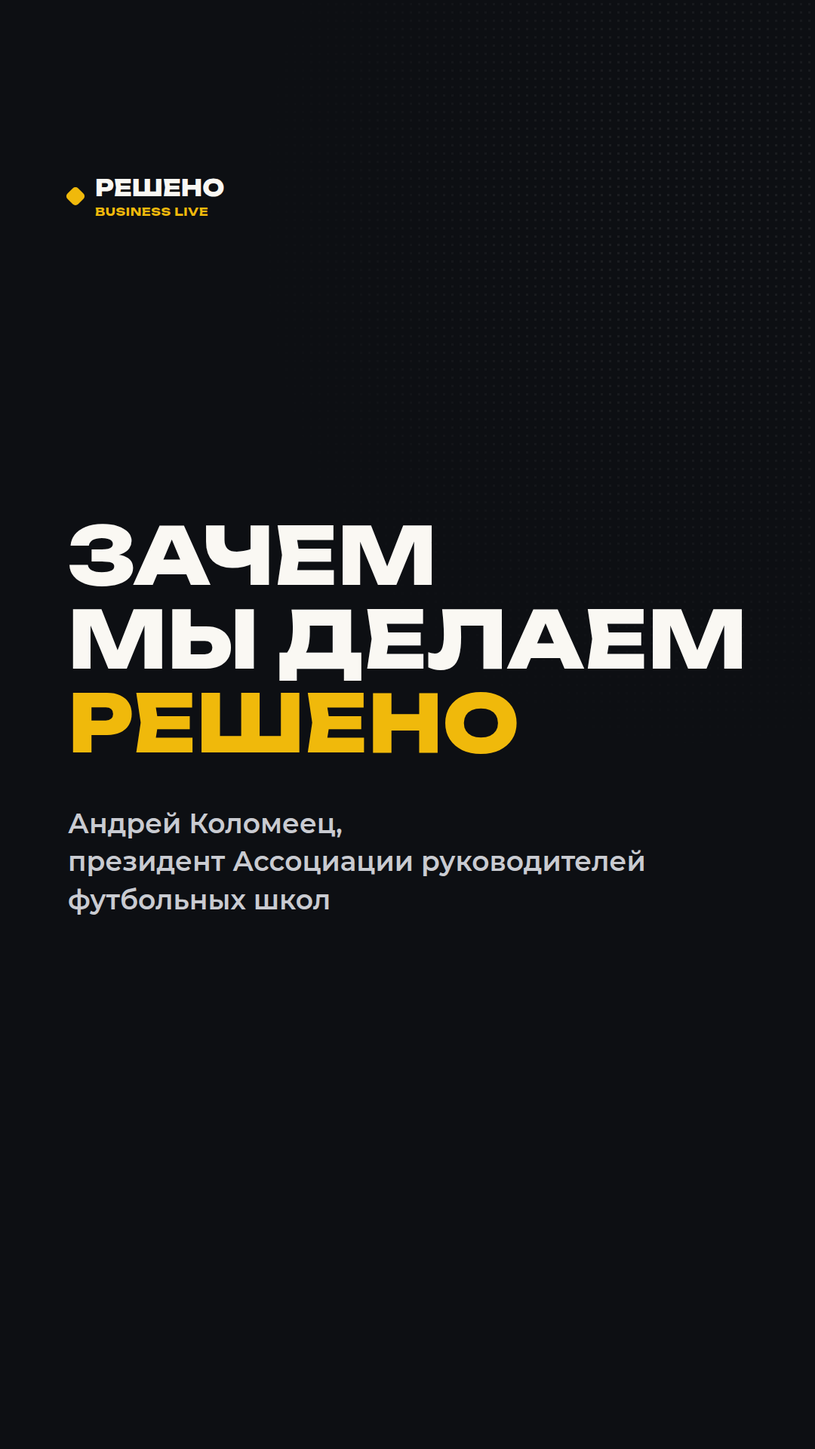
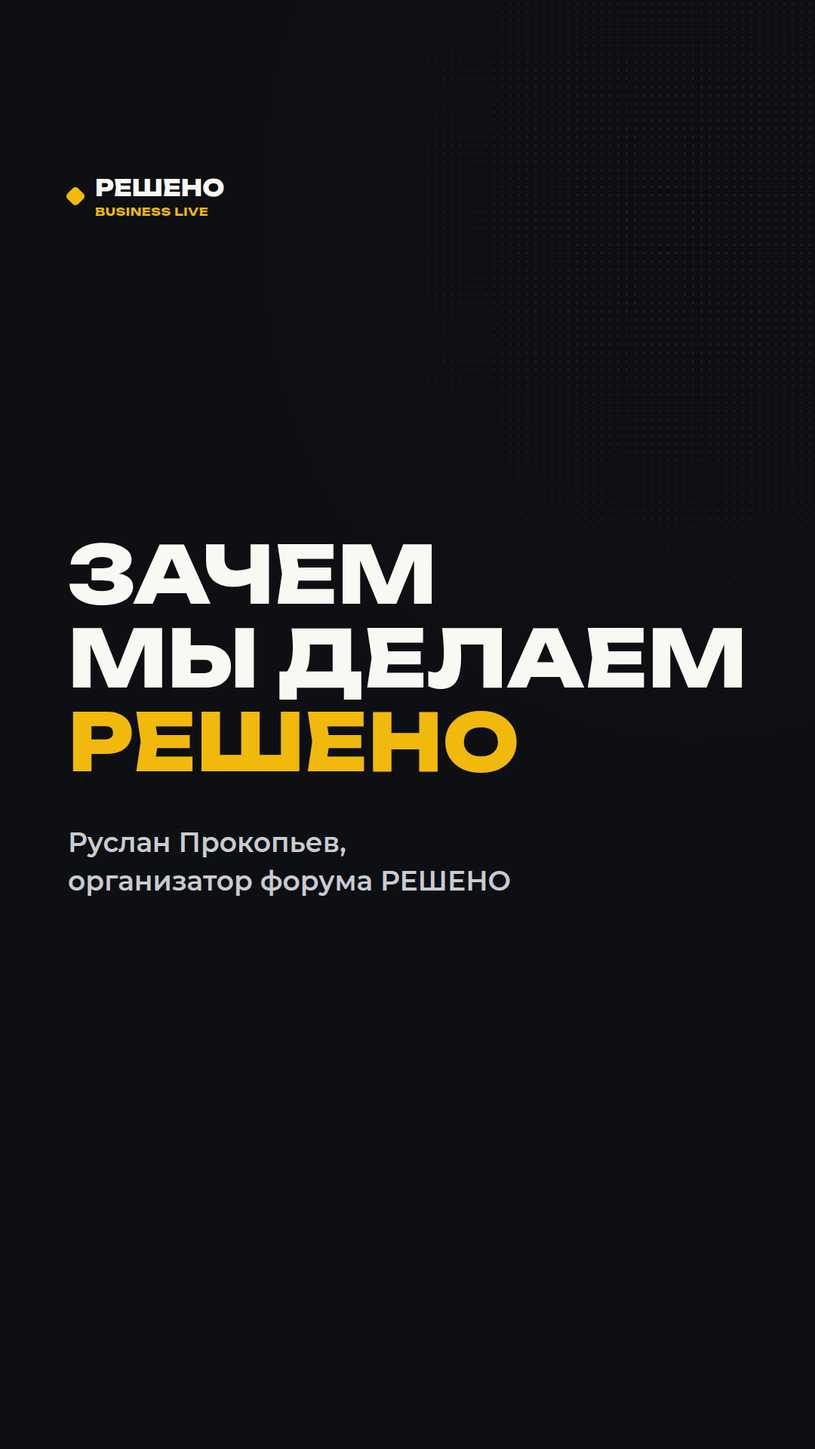
Week 1: Ruslan Prokopyev as organizer, stricter chat rules, first messages
Replace the organizer across posts, video script, reel cover and
mailing; rewrite chat rules to ban sales and spam outright; add the
channel's opening post and a new first message for the chat.

Claude-Session: https://claude.ai/code/session_015DfynR8ViCbDyQMuNVS5SH

Changed region(s): [[0.0611, 0.3438, 0.9167, 0.5312], [0.0611, 0.5625, 0.7944, 0.6562]]

diff --git a/content/week-01_28.09-04.10/README.md b/content/week-01_28.09-04.10/README.md
@@ -1,6 +1,6 @@
 # Неделя 1 · 28.09–04.10 · «Что такое РЕШЕНО»
 
-Исходный план — [`kontent-plan.md`](kontent-plan.md). Цель недели: объяснить, чем РЕШЕНО отличается от обычных форумов, и набрать 100 подписчиков в Telegram. Спикеров и цены не называем.
+Исходный план — [`kontent-plan.md`](kontent-plan.md) (в нём ещё старое имя организатора; в готовых материалах — Руслан Александрович Прокопьев, организатор и первое лицо форума). Цель недели: объяснить, чем РЕШЕНО отличается от обычных форумов, и набрать 100 подписчиков в Telegram. Спикеров и цены не называем.
 
 ## Где что лежит
 
@@ -17,6 +17,7 @@ instagram/       карусели (slide-N.png + podpis.md), рилсы, stories
 
 | День | Время | Telegram-канал | VK | Instagram | Сторис (IG + VK) |
 |---|---|---|---|---|---|
+| **до 28.09** | — | [Первое сообщение канала](telegram/00-pervoe-soobschenie-kanala.md) — сразу после создания | | | |
 | **Пн 28.09** | 10:00 | [Манифест](telegram/1-pn-28.09-manifest.md) 📌 + [рассылка по базе](telegram/0-rassylka-po-baze-associacii.md) | [Пост + обложка](vk/1-pn-28.09-manifest/) | [Карусель, 6 сл.](instagram/1-pn-28.09-karusel-manifest/) | «Мы запустились», ссылка на канал |
 | **Вт 29.09** | 10:00 | [Организатор + видео](telegram/2-vt-29.09-organizator.md) | [Пост + видео](vk/2-vt-29.09-organizator/) | [Рилс](instagram/2-vt-29.09-rils-organizator/) | «Готовим РЕШЕНО», опрос Да/Нет |
 | **Ср 30.09** | 10:00 | [5 вопросов](telegram/3-sr-30.09-5-voprosov.md) | [Пост + карточка](vk/3-sr-30.09-5-voprosov/) | [Карусель, 7 сл.](instagram/3-sr-30.09-karusel-5-voprosov/) | Стикер-вопрос |
@@ -24,7 +25,7 @@ instagram/       карусели (slide-N.png + podpis.md), рилсы, stories
 | **Пт 02.10** | 11:00 | [Вопрос недели](telegram/5-pt-02.10-vopros-nedeli.md) | [Клип](vk/5-pt-02.10-klip-vopros-nedeli/) | [Рилс](instagram/5-pt-02.10-rils-vopros-nedeli/) | Репост + опрос «Тренер / Цифра» |
 | **Сб 03.10** | 12:00 | [Итоги опроса](telegram/6-sb-03.10-itogi-oprosa.md) ⚠ | [Итоги + диаграмма](vk/6-sb-03.10-itogi-oprosa/) ⚠ | [Карусель, 3 сл.](instagram/6-sb-03.10-karusel-itogi/) ⚠ | Итоги ⚠ |
 | **Вс 04.10** | — | [Мем «Понедельник владельца»](telegram/7-vs-04.10-mem/) | — | — | Закулисье, анонс недели 2 |
-| **Вс 04.10** | вечер | **Чат:** [пригласить 10–15 человек](telegram-chat/5-lichnoe-priglashenie.md), [приветствие](telegram-chat/4-privetstvie.md) | | | |
+| **Вс 04.10** | вечер | **Чат:** [правила-закреп](telegram-chat/2-pravila-zakrep.md), [пригласить 10–15 человек](telegram-chat/5-lichnoe-priglashenie.md), [первое сообщение](telegram-chat/4-privetstvie.md) | | | |
 
 ⚠ — шаблоны: ждут цифр опроса. Пришлите результаты в субботу утром — перерисую диаграмму, карусель и сторис.
 
@@ -35,7 +36,7 @@ instagram/       карусели (slide-N.png + podpis.md), рилсы, stories
 **Готово в репозитории:** все тексты для 4 площадок, 2 карусели + шаблон третьей, обложки рилсов и клипа, титры клипа (прозрачные PNG), карточки и обложки VK, 10 сторис-фонов, мем, материалы для чата, рассылка по базе.
 
 **Нужно снять / сделать вручную до 28.09:**
-- [ ] Видеообращение Андрея Николаевича — [сценарий](instagram/2-vt-29.09-rils-organizator/scenariy.md)
+- [ ] Видеообращение Руслана Александровича Прокопьева — [сценарий](instagram/2-vt-29.09-rils-organizator/scenariy.md)
 - [ ] Ролик «Вопрос недели» — [сценарий](vk/5-pt-02.10-klip-vopros-nedeli/scenariy.md)
 - [ ] Фото команды (вт) и закулисья (вс) для сторис
 - [ ] Ссылки на лендинг и Telegram-канал в шапках VK и Instagram

diff --git a/content/week-01_28.09-04.10/telegram-chat/2-pravila-zakrep.md b/content/week-01_28.09-04.10/telegram-chat/2-pravila-zakrep.md
@@ -2,18 +2,28 @@
 
 ---
 
-**Добро пожаловать в сообщество РЕШЕНО**
+**Правила сообщества РЕШЕНО**
 
-Здесь собираются владельцы и руководители спортивного бизнеса, чтобы обсуждать реальные вопросы: деньги, клиентов, команду, рост.
+Это закрытая площадка для общения владельцев и руководителей спортивного бизнеса. Ценность чата — в людях и честных разговорах, поэтому правила здесь строгие.
 
-**Три правила:**
+**✅ Здесь можно**
+• Задавать вопросы о своём бизнесе и делиться опытом
+• Спорить по делу — с аргументами и уважением
+• Знакомиться и договариваться о встречах на форуме
 
-1⃣ **Представьтесь** одним сообщением:
+**⛔ Здесь нельзя**
+• **Продавать.** Никаких предложений услуг, товаров, курсов и «напишите мне в личку» — даже если кажется, что это к месту
+• **Рекламировать и спамить.** Ссылки на свои каналы, сайты, акции, репосты и массовые рассылки участникам в личку
+• **Переходить на личности** и выяснять отношения
+
+Нарушение правил «Нельзя» — **удаление сообщения и блокировка без предупреждения.** Исключений нет, в том числе для партнёров форума.
+
+**👋 Как начать**
+Представьтесь одним сообщением:
 Имя, город, бизнес, главный вопрос.
-_Например: Андрей, Казань, футбольная школа на 300 детей, не могу найти тренеров._
+_Например: Иван, Самара, футбольная школа на 300 детей, не могу найти тренеров._
 
-2⃣ **Без спама и рекламы.** Продавать свои услуги — только если об этом спросили.
+**❓ Вопросы организаторам** — с тегом #вопрос. Так мы их точно не пропустим.
 
-3⃣ **Вопросы организаторам — с тегом #вопрос.** Так мы их не пропустим.
-
-Форум — 13–14 ноября, Москва. Подробности: sportbusinessforum.netlify.app
+Форум — 13–14 ноября 2026, Москва · sportbusinessforum.netlify.app
+Новости форума — в канале: {{ссылка на канал}}

diff --git a/content/week-01_28.09-04.10/telegram/2-vt-29.09-organizator.md b/content/week-01_28.09-04.10/telegram/2-vt-29.09-organizator.md
@@ -1,13 +1,15 @@
 # ВТ 29.09 · 10:00 · Организатор
 
-Прикрепить: видеообращение Андрея Николаевича (вертикальное, с субтитрами). Сценарий — `../instagram/2-vt-29.09-rils-organizator/scenariy.md`
+Прикрепить: видеообращение Руслана Александровича Прокопьева (вертикальное, с субтитрами). Сценарий — `../instagram/2-vt-29.09-rils-organizator/scenariy.md`
 
 ---
 
 **Кто делает РЕШЕНО и зачем**
 
-Организатор форума — Ассоциация руководителей футбольных школ. Мы каждый день общаемся с владельцами школ и клубов и видим одни и те же вопросы: где брать клиентов, как удержать тренеров, как вырасти и не выгореть.
+РЕШЕНО делают люди из отрасли, а не ивент-агентство. Организатор и первое лицо форума — Руслан Александрович Прокопьев. Мы каждый день общаемся с владельцами спортивных школ и клубов и видим одни и те же вопросы: где брать клиентов, как удержать тренеров, как вырасти и не выгореть.
 
 На обычных конференциях на них отвечают общими словами. Мы решили собрать людей, которые уже прошли этот путь, и посадить их за один стол с теми, кто идёт по нему сейчас.
+
+Зачем это всё — Руслан Александрович рассказывает сам 👇
 
 Такие вопросы решаем на РЕШЕНО → Узнать подробнее: sportbusinessforum.netlify.app

diff --git a/content/week-01_28.09-04.10/vk/2-vt-29.09-organizator/post.md b/content/week-01_28.09-04.10/vk/2-vt-29.09-organizator/post.md
@@ -1,14 +1,14 @@
 # VK · ВТ 29.09 · 10:00 · Организатор
 
-Видео: видеообращение Андрея Николаевича — **загрузить нативно в VK, не ссылкой**. Сценарий: `../../instagram/2-vt-29.09-rils-organizator/scenariy.md`
+Видео: видеообращение Руслана Александровича Прокопьева — **загрузить нативно в VK, не ссылкой**. Сценарий: `../../instagram/2-vt-29.09-rils-organizator/scenariy.md`
 
 ---
 
 **Кто делает РЕШЕНО и зачем**
 
-Организатор — Ассоциация руководителей футбольных школ. Каждый день мы слышим от владельцев школ и клубов одни и те же вопросы: где брать клиентов, как удержать тренеров, как вырасти и не выгореть.
+Организатор и первое лицо форума — Руслан Александрович Прокопьев. Каждый день мы слышим от владельцев спортивных школ и клубов одни и те же вопросы: где брать клиентов, как удержать тренеров, как вырасти и не выгореть.
 
-Мы собираем тех, кто уже прошёл этот путь, за одним столом с теми, кто идёт по нему сейчас.
+Мы собираем тех, кто уже прошёл этот путь, за одним столом с теми, кто идёт по нему сейчас. Зачем — рассказывает Руслан Александрович в видео.
 
 Такие вопросы решаем на РЕШЕНО → Узнать подробнее: sportbusinessforum.netlify.app
 

diff --git a/content/week-01_28.09-04.10/telegram-chat/4-privetstvie.md b/content/week-01_28.09-04.10/telegram-chat/4-privetstvie.md
@@ -1,9 +1,22 @@
-# Первое сообщение модератора (вс 04.10, после приглашений)
+# Первое сообщение чата (вс 04.10, сразу после личных приглашений)
+
+Публикует модератор, затем закрепляет над правилами (или правила — в закреп, это — первым сообщением ленты).
 
 ---
 
-Добро пожаловать! 👋
+**Добро пожаловать в сообщество РЕШЕНО** 👋
 
-Представьтесь и напишите, с каким вопросом поехали бы на форум.
+Это площадка для общения участников и друзей форума РЕШЕНО — владельцев и руководителей спортивного бизнеса.
+
+Здесь мы:
+🔸 обсуждаем то, что реально болит: деньги, клиенты, команда, рост
+🔸 делимся опытом — что сработало, а что нет
+🔸 знакомимся до форума, чтобы 13–14 ноября в Москве встретиться уже не незнакомцами
+
+Здесь нет продаж, рекламы и спама — только разговоры по делу. Правила — в закрепе.
+
+**С чего начать:** представьтесь и напишите, с каким вопросом поехали бы на форум.
 
 Начну с себя: [Имя], [роль в команде РЕШЕНО]. Мой вопрос: [короткий вопрос].
+
+Новости форума — в канале: {{ссылка на канал}}

diff --git a/content/week-01_28.09-04.10/telegram/00-pervoe-soobschenie-kanala.md b/content/week-01_28.09-04.10/telegram/00-pervoe-soobschenie-kanala.md
@@ -1,0 +1,24 @@
+# Первое сообщение канала (опубликовать сразу после создания, до манифеста)
+
+Это «визитка» канала: объясняет, что здесь официальная информационная площадка форума. В понедельник 28.09 в закреп уходит манифест, а эту визитку можно закрепить второй или оставить первым постом ленты.
+
+---
+
+**РЕШЕНО. Business Live**
+Официальный канал форума владельцев и руководителей спортивного бизнеса
+
+13–14 ноября 2026 · Москва
+
+Это информационная площадка форума. Здесь — только то, что важно знать:
+
+🔸 **Новости форума** — программа, форматы, спикеры по мере подтверждения
+🔸 **Разборы** — реальные вопросы спортивного бизнеса: деньги, клиенты, команда, рост
+🔸 **Опросы** — ваши ответы лягут в основу программы
+🔸 **Важные даты** — старт регистрации, дедлайны, подготовка к форуму
+
+Без рекламы, без спама, без лишнего. Только по делу.
+
+💬 Обсудить, задать вопрос, познакомиться — в чате сообщества: {{ссылка на чат}}
+🌐 Всё о форуме → sportbusinessforum.netlify.app
+
+Не просто послушать. Приехать решить.

diff --git a/content/week-01_28.09-04.10/instagram/2-vt-29.09-rils-organizator/scenariy.md b/content/week-01_28.09-04.10/instagram/2-vt-29.09-rils-organizator/scenariy.md
@@ -4,8 +4,8 @@
 
 | # | Смысл | Текст (говорить своими словами, это ориентир) |
 |---|---|---|
-| 1 | Кто я | «Андрей Коломеец, президент Ассоциации руководителей футбольных школ». |
-| 2 | Боль | «Я вижу, как владельцы школ годами решают одни и те же проблемы в одиночку». |
+| 1 | Кто я | «Руслан Прокопьев, организатор форума РЕШЕНО». |
+| 2 | Боль | «Я вижу, как владельцы спортивных школ и клубов годами решают одни и те же проблемы в одиночку». |
 | 3 | Идея | «РЕШЕНО — место, где вы приезжаете со своим вопросом и уезжаете с решением». |
 | 4 | Призыв | «13–14 ноября, Москва. Подробности по ссылке». |
 

diff --git a/content/week-01_28.09-04.10/telegram/0-rassylka-po-baze-associacii.md b/content/week-01_28.09-04.10/telegram/0-rassylka-po-baze-associacii.md
@@ -1,10 +1,10 @@
 # Рассылка по базе ассоциации (отправить в пн 28.09 после манифеста)
 
-Короткий личный текст — отправлять от имени ассоциации / Андрея Николаевича, не от «бренда».
+Короткий личный текст — отправлять от имени Руслана Александровича Прокопьева, не от «бренда».
 
 ---
 
-Коллеги, добрый день!
+Коллеги, добрый день! Это Руслан Прокопьев.
 
 Мы запускаем РЕШЕНО — форум для владельцев и руководителей спортивного бизнеса. 13–14 ноября, Москва.
 

diff --git a/content/week-01_28.09-04.10/instagram/2-vt-29.09-rils-organizator/podpis.md b/content/week-01_28.09-04.10/instagram/2-vt-29.09-rils-organizator/podpis.md
@@ -4,7 +4,7 @@
 
 ---
 
-Зачем мы делаем РЕШЕНО — объясняет Андрей Коломеец, президент Ассоциации руководителей футбольных школ.
+Зачем мы делаем РЕШЕНО — объясняет Руслан Прокопьев, организатор и первое лицо форума.
 Ссылка — в шапке.
 
 #спортивныйбизнес #спортивнаяшкола #футбольнаяшкола #бизнесфорум #владелецбизнеса #РЕШЕНО
